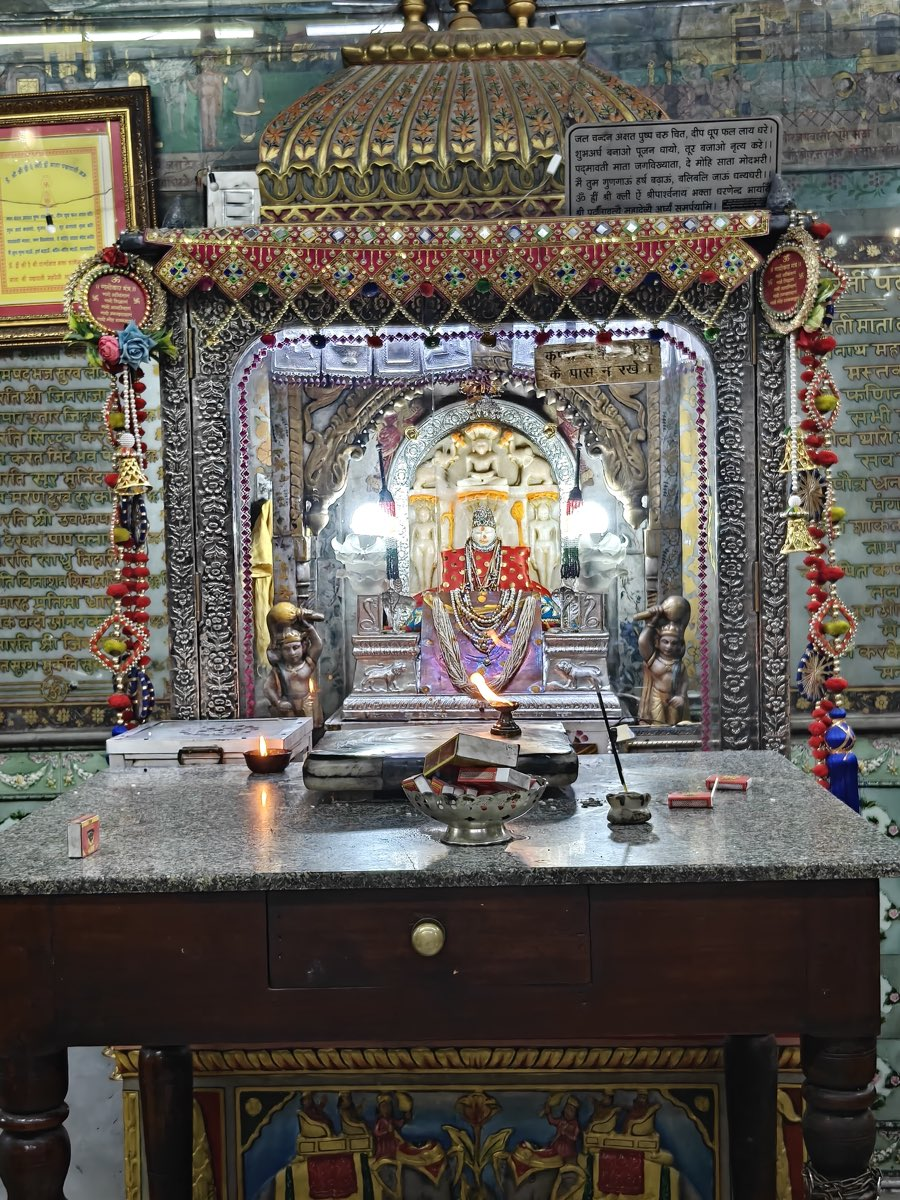
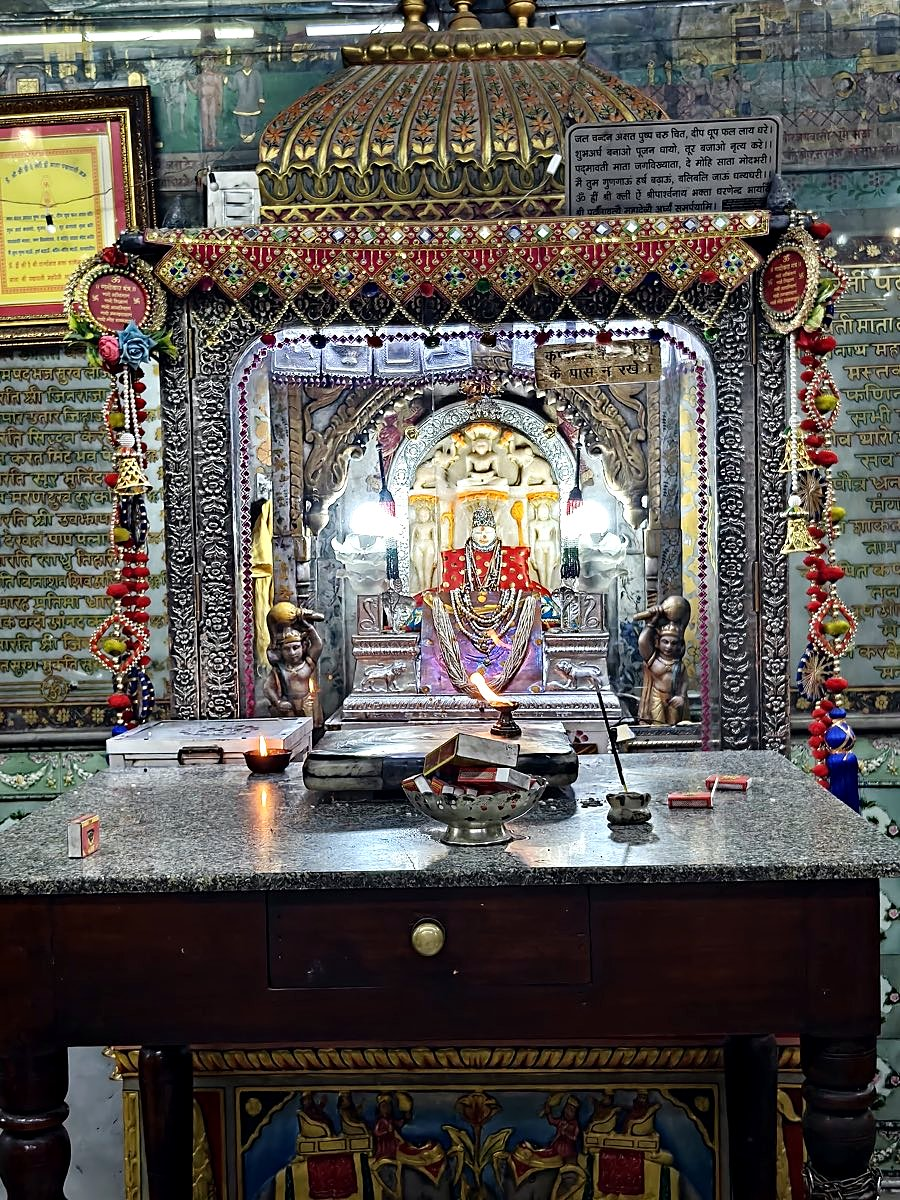
Curate and enhance Chhota Mandir photos; new cover + darshan hero; enrich history
Dedupe the gallery from 27 raw photos (19 existing + 8 newly supplied,
several fired 2-3 times each) down to 18 curated images, keeping the
sharpest/best-lit shot from each near-duplicate cluster. Applied a
consistent mild enhancement pass (levels, contrast, color, sharpness)
across the whole kept set.

Replaced the cluttered doorway-with-wires cover photo with a clean,
unobstructed shot of the domed ceiling and altar. Added a dedicated
detailHeroImage showing all three Bhagwanji idols clearly for the
temple's detail-page banner, matching the pattern Lal Mandir already
uses.

Enriched the existing Historical Chronicle entry with the Mughal-era
political context (Bahadur Shah Zafar), Bada Mandir's 1824 founding
and the "twin shrines" relationship, and the inward-facing haveli
architecture -- which also explains why no good exterior photo exists.
The existing Indraj/Afghan-merchant origin story is untouched.

diff --git a/src/data/templeHistory.js b/src/data/templeHistory.js
@@ -181,8 +181,15 @@ export const templeHistoryMap = {
     architecturalHighlights: [
       'Erected directly opposite Bada Mandir on residential land donated by Indraj — built without prior planning, inspired entirely by devotion',
       'Six altars: the miraculous Chandraprabhu idol, five altars of ancient stone and metallic figures, and a shrine to Goddess Padmavati',
+      'Classic Shahjahanabad haveli style — an unassuming street face typical of Old Delhi homes conceals an interior of polished white marble, arched niches, and intricate carving, built inward-facing to keep the sanctum quiet and sheltered from the bazaar outside',
     ],
     historicalEvents: [
+      {
+        title: 'Twin Shrines of Kucha Seth',
+        period: 'c. 1824–1840 CE',
+        description:
+          "Kucha Seth — 'the lane of the wealthy merchants' — was home to affluent Agrawal Digambar Jain financiers, court jewellers, and sarrafs (money changers) who worked the Dariba Kalan jewellery market. Shri Digambar Jain Bada Mandir rose first, around 1824, as the neighbourhood's larger congregational complex. Chhota Mandir followed in 1840, in the twilight decades of the Mughal Empire under Bahadur Shah Zafar, built as a smaller, more intimate sanctuary for the immediate neighbourhood's daily puja and abhisheka — a quieter counterpart just across the lane from its larger neighbour.",
+      },
       {
         title: 'The Dream of Indraj & The Afghan Merchant',
         period: '~1840 CE',

diff --git a/src/data/temples.js b/src/data/temples.js
@@ -1,6 +1,7 @@
 import imgLalMandir           from '../assets/lal_mandir_real_web.jpg';
 import imgLalMandirJhanki     from '../assets/lal_mandir_interior_real_web.jpg';
 import imgChotaMandir         from '../assets/chota_mandir_real_web.jpg';
+import imgChotaMandirDarshan  from '../assets/chota_mandir_darshan_web.jpg';
 import imgBadaMandir          from '../assets/bada_mandir_real_web.jpg';
 import imgNayaMandir          from '../assets/temple_naya_mandir_web.jpg';
 import imgNayaMandir2         from '../assets/temple_naya_mandir_2_web.jpg';
@@ -66,6 +67,7 @@ export const temples = [
     moolnayak: 'Lord Shantinatha (16th Tirthankara)',
     featured: false,
     image: imgChotaMandir,
+    detailHeroImage: imgChotaMandirDarshan,
     images: chotaMandirGallery,
     videos: [],
   },
